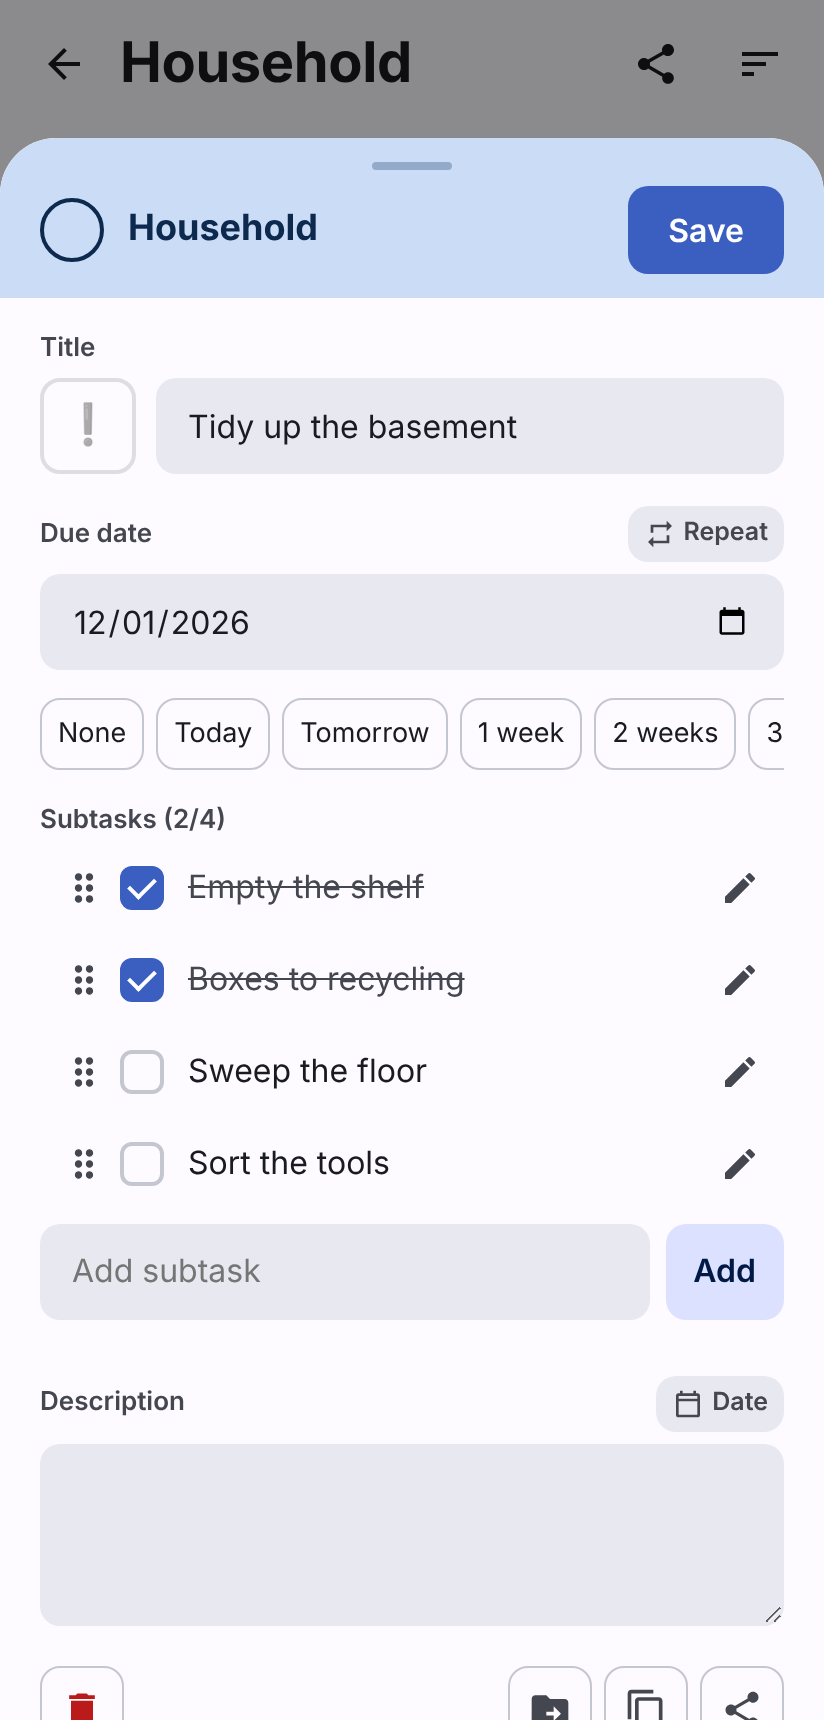
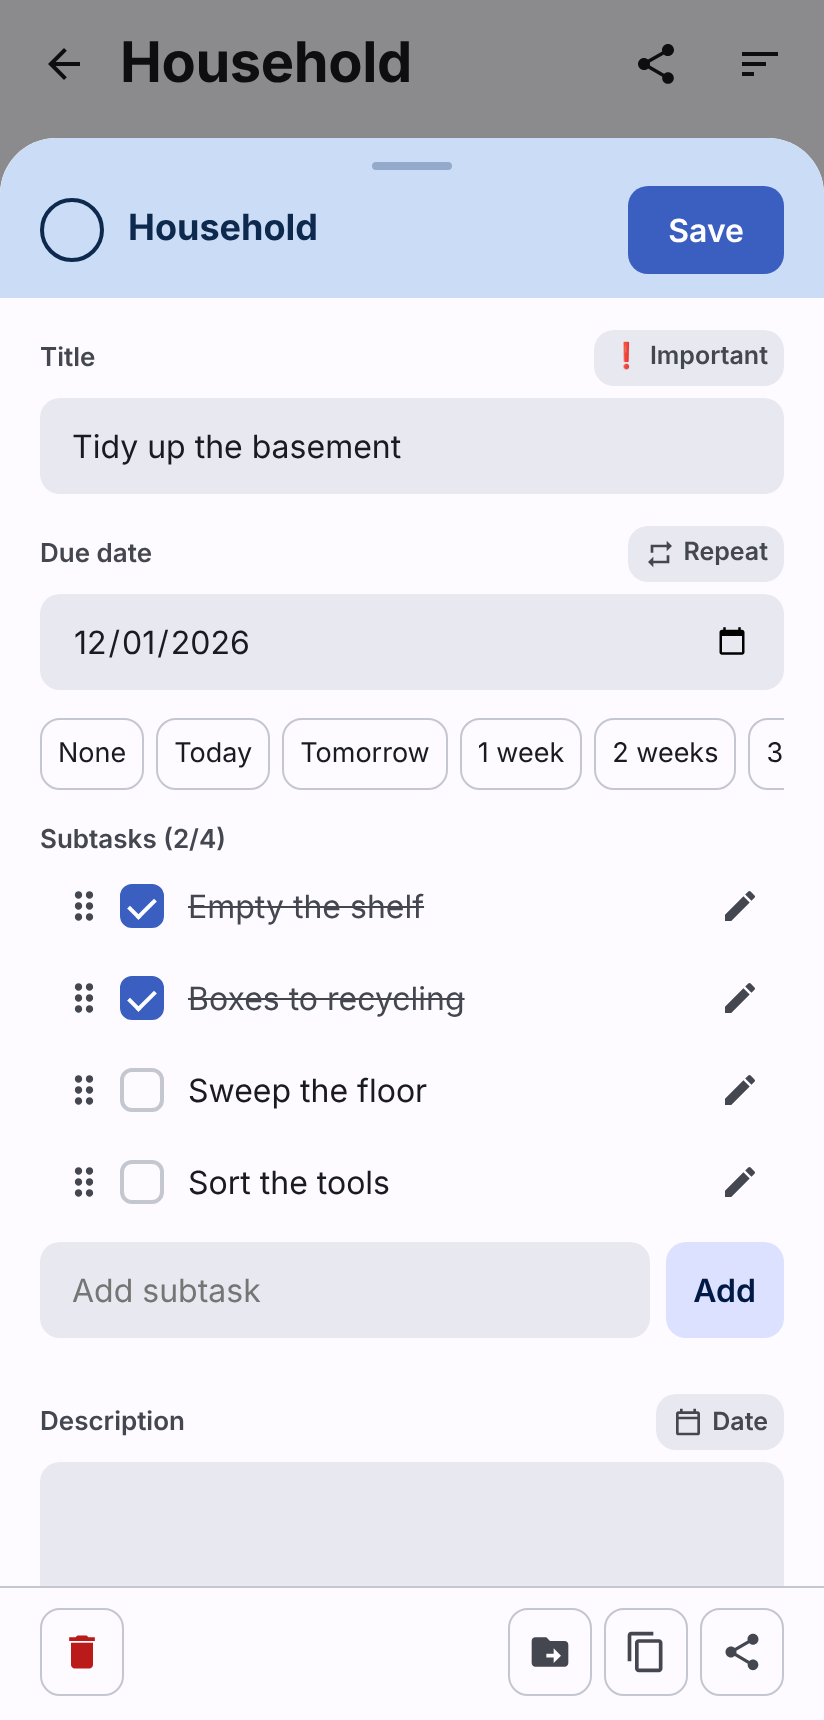
1.1.4: Schalter "Wichtig" über dem Titel, Knopfleiste fest unten
- Prio als Schalter "❗ Wichtig" rechts über dem Titel (Bearbeiten und
  Neue Aufgabe), eingeschaltet rot. Ersetzt den grauen Knopf "!".
- Knopfleiste im Dialog bleibt beim Scrollen am unteren Rand
- Test e2e45, e2e2 an die neue Position angepasst, Screenshots neu

Claude-Session: https://claude.ai/code/session_01BsJ96owDJnezbsoGNxPtMU

diff --git a/app/js/sheet.js b/app/js/sheet.js
@@ -91,7 +91,7 @@ export class ItemSheet {
     const originalDue = parseDue(item.due)?.date ?? '';
 
     const title = h('input', { class: 'field-input', name: 'title', id: 'sheet-title', type: 'text', value: stripPrio(item.summary), enterkeyhint: 'done' });
-    const prio = h('button', { class: 'prio-toggle press', type: 'button', name: 'prio', 'aria-pressed': String(isPrio(item.summary)), 'aria-label': t('item.prioToggle') }, '❗');
+    const prio = h('button', { class: 'label-btn prio-toggle press', type: 'button', name: 'prio', 'aria-pressed': String(isPrio(item.summary)), 'aria-label': t('item.prioToggle') }, h('span', { 'aria-hidden': 'true' }, '❗'), t('item.prio'));
     prio.addEventListener('click', () => {
       prio.setAttribute('aria-pressed', String(prio.getAttribute('aria-pressed') !== 'true'));
       title.focus({ preventScroll: true });
@@ -326,7 +326,7 @@ export class ItemSheet {
         h('div', { class: 'sheet-head sheet-head-edit' }, done, h('span', { class: 'sheet-band-name' }, list.name), save),
       ),
       // Gleiche Reihenfolge wie bei einer neuen Aufgabe: Titel, Fälligkeit, Unteraufgaben, Beschreibung
-      h('div', { class: 'field' }, h('label', { class: 'field-label', for: 'sheet-title' }, t('item.title')), h('div', { class: 'title-row' }, prio, title)),
+      h('div', { class: 'field' }, h('div', { class: 'label-row' }, h('label', { class: 'field-label', for: 'sheet-title' }, t('item.title')), prio), title),
       due
         ? h(
             'div',
@@ -346,7 +346,7 @@ export class ItemSheet {
           )
         : null,
       linkBox,
-      h('div', { class: 'sheet-actions' }, actions),
+      h('div', { class: 'sheet-actions sheet-actions-bar' }, actions),
     );
 
     title.addEventListener('input', () => (save.disabled = title.value.trim() === ''));

diff --git a/app/css/app.css b/app/css/app.css
@@ -976,27 +976,14 @@ body:has(#fab:not([hidden])) #content {
   color: var(--on-primary-container);
   font-weight: 600;
 }
+/* Schalter "❗ Wichtig" rechts über dem Titel, im Stil von "Wiederholen". Eingeschaltet rot. */
 .prio-toggle {
   flex: none;
-  width: 48px;
-  height: 48px;
-  display: grid;
-  place-items: center;
-  border: 2px solid var(--outline);
-  border-radius: var(--radius-card);
-  background: transparent;
-  font-size: 20px;
-  line-height: 1;
-  filter: grayscale(1);
-  opacity: 0.55;
-  cursor: pointer;
 }
 
 .prio-toggle[aria-pressed='true'] {
-  filter: none;
-  opacity: 1;
-  border-color: var(--error);
-  background: var(--error-container);
+  background: var(--error);
+  color: var(--bg);
 }
 
 .prio-toggle:disabled {
@@ -1663,16 +1650,6 @@ body:has(#fab:not([hidden])) #content {
 .filter-chip {
   font-size: 13.5px;
 }
-.title-row {
-  display: flex;
-  align-items: center;
-  gap: 10px;
-}
-
-.title-row .field-input {
-  flex: 1 1 auto;
-  min-width: 0;
-}
 .pick-check {
   color: var(--primary);
   font-weight: 700;
@@ -1737,6 +1714,17 @@ body:has(#fab:not([hidden])) #content {
 
 .sheet-actions .btn-icon.btn-danger {
   color: var(--error);
+}
+
+/* Knopfleiste im Dialog bleibt beim Scrollen unten stehen, wie der Kopf oben */
+.sheet-actions-bar {
+  position: sticky;
+  bottom: calc(-20px - env(safe-area-inset-bottom));
+  z-index: 1;
+  margin: 0 -20px calc(-20px - env(safe-area-inset-bottom));
+  padding: 10px 20px calc(12px + env(safe-area-inset-bottom));
+  background: var(--bg);
+  border-top: 1px solid var(--outline);
 }
 
 .sheet-actions .btn-primary {

diff --git a/app/js/newtask.js b/app/js/newtask.js
@@ -21,7 +21,7 @@ export function openNewTask({ state, store, repo, toast, initial = {}, listId = 
   history.pushState({ n: (history.state?.n ?? 0) + 1, picker: true, newTask: true }, '', location.href);
 
   const title = h('input', { class: 'field-input', name: 'title', id: 'new-title', type: 'text', autocapitalize: 'sentences', enterkeyhint: 'done' });
-  const prio = h('button', { class: 'prio-toggle press', type: 'button', name: 'prio', 'aria-pressed': 'false', 'aria-label': t('item.prioToggle') }, '❗');
+  const prio = h('button', { class: 'label-btn prio-toggle press', type: 'button', name: 'prio', 'aria-pressed': 'false', 'aria-label': t('item.prioToggle') }, h('span', { 'aria-hidden': 'true' }, '❗'), t('item.prio'));
   prio.addEventListener('click', () => {
     prio.setAttribute('aria-pressed', String(prio.getAttribute('aria-pressed') !== 'true'));
     title.focus({ preventScroll: true });
@@ -239,7 +239,7 @@ export function openNewTask({ state, store, repo, toast, initial = {}, listId = 
     'form',
     { class: 'sheet', role: 'dialog', 'aria-modal': 'true', 'aria-label': t('newTask.title') },
     band,
-    h('div', { class: 'field' }, h('label', { class: 'field-label', for: 'new-title' }, t('item.title')), h('div', { class: 'title-row' }, prio, title), suggest, multi),
+    h('div', { class: 'field' }, h('div', { class: 'label-row' }, h('label', { class: 'field-label', for: 'new-title' }, t('item.title')), prio), title, suggest, multi),
     dueField,
     subField,
     descriptionField,

diff --git a/app/sw.js b/app/sw.js
@@ -1,7 +1,7 @@
 // Service Worker: liefert die App-Dateien aus dem Cache, damit Merker auch ohne Netz startet.
 // Aktualisierung: Jede Version hat einen eigenen Cache, der bei der Installation komplett und am HTTP-Cache vorbei gefüllt wird.
 // CACHE_VERSION bei jeder Änderung an den App-Dateien erhöhen und mit js/version.js gleich halten.
-const CACHE_VERSION = '1.1.3';
+const CACHE_VERSION = '1.1.4';
 const CACHE_NAME = `merker-${CACHE_VERSION}`;
 
 const ASSETS = [

diff --git a/app/js/version.js b/app/js/version.js
@@ -1,2 +1,2 @@
 // Muss mit CACHE_VERSION in sw.js übereinstimmen, damit Updates der App-Dateien ankommen.
-export const APP_VERSION = '1.1.3';
+export const APP_VERSION = '1.1.4';

diff --git a/README.de.md b/README.de.md
@@ -70,7 +70,7 @@ Für ein Update die Dateien ersetzen. Merker zeigt dann "Version … verfügbar"
 
 ## Entwicklung
 
-Reine ES-Module, kein Framework, kein Build-Schritt. Alles in `app/` wird unverändert kopiert. Befehle und Aufbau stehen im [englischen README](README.md#development). Merker entsteht mit Hilfe von KI (Claude Code, Regeln in `CLAUDE.md`). Bisher gab es mehr als 60 Versionen, ich nutze die App täglich, und sie ist mit 39 Browser-Tests und über 200 Prüfschritten gegen einen nachgebauten Home-Assistant-Server abgesichert.
+Reine ES-Module, kein Framework, kein Build-Schritt. Alles in `app/` wird unverändert kopiert. Befehle und Aufbau stehen im [englischen README](README.md#development). Merker entsteht mit Hilfe von KI (Claude Code, Regeln in `CLAUDE.md`). Bisher gab es mehr als 60 Versionen, ich nutze die App täglich, und sie ist mit 40 Browser-Tests und über 200 Prüfschritten gegen einen nachgebauten Home-Assistant-Server abgesichert.
 
 ## Lizenz
 

diff --git a/README.md b/README.md
@@ -92,7 +92,7 @@ npm run screenshots           # screenshots for this README
 - `scripts/`: set the version, build a zip, screenshots
 - `ha/`: update script for Home Assistant
 - `CHANGELOG.md`: all versions (German)
-- `CLAUDE.md`: rules and decisions for working on Merker with Claude Code. Merker is developed with AI assistance. It has had more than 60 releases so far, is used every day by its author and is covered by 39 browser tests with more than 200 checks against a mock Home Assistant server.
+- `CLAUDE.md`: rules and decisions for working on Merker with Claude Code. Merker is developed with AI assistance. It has had more than 60 releases so far, is used every day by its author and is covered by 40 browser tests with more than 200 checks against a mock Home Assistant server.
 
 ## License
 

diff --git a/CHANGELOG.md b/CHANGELOG.md
@@ -2,6 +2,10 @@
 
 Neueste Version oben. Jede Version hat eine eigene Überschrift.
 
+## Version 1.1.4
+
+Wichtig markieren über den Schalter "❗ Wichtig" rechts über dem Titel, im Stil von "Wiederholen", eingeschaltet rot. Er ersetzt den grauen Knopf "!" vor dem Titel, bei Bearbeiten und bei Neue Aufgabe. Die Knopfleiste unten im Dialog bleibt beim Scrollen am unteren Rand stehen und ist damit immer ganz zu sehen.
+
 ## Version 1.1.3
 
 Aus dem UI-Review:
